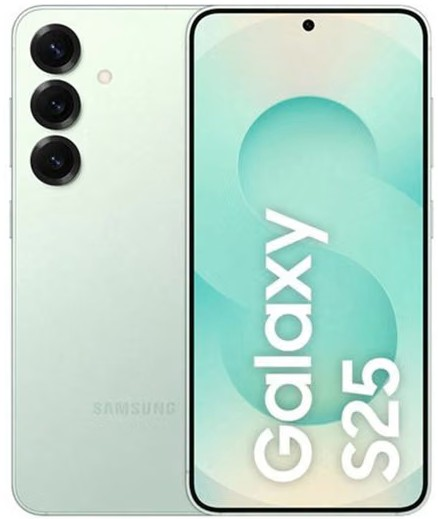
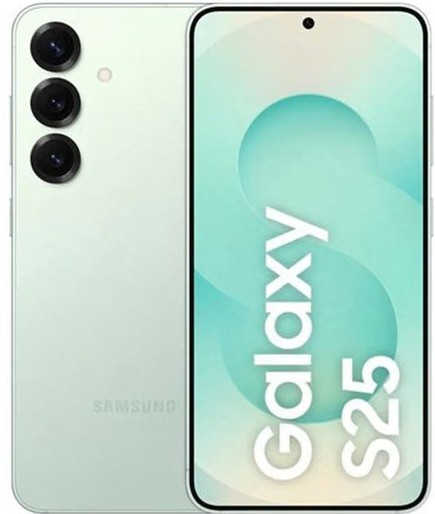
fix: adjust Samsung S25 variant image scaling

diff --git a/src/components/ProductCard.tsx b/src/components/ProductCard.tsx
@@ -20,7 +20,7 @@ export default function ProductCard({ product }: { product: Product }) {
             src={displayVariant.imageUrl}
             alt={product.name}
             fill
-            className="object-contain p-3 transition-transform duration-300 group-hover:scale-105"
+            className="object-contain p-3"
             sizes="(max-width: 768px) 50vw, 200px"
           />
         </div>
